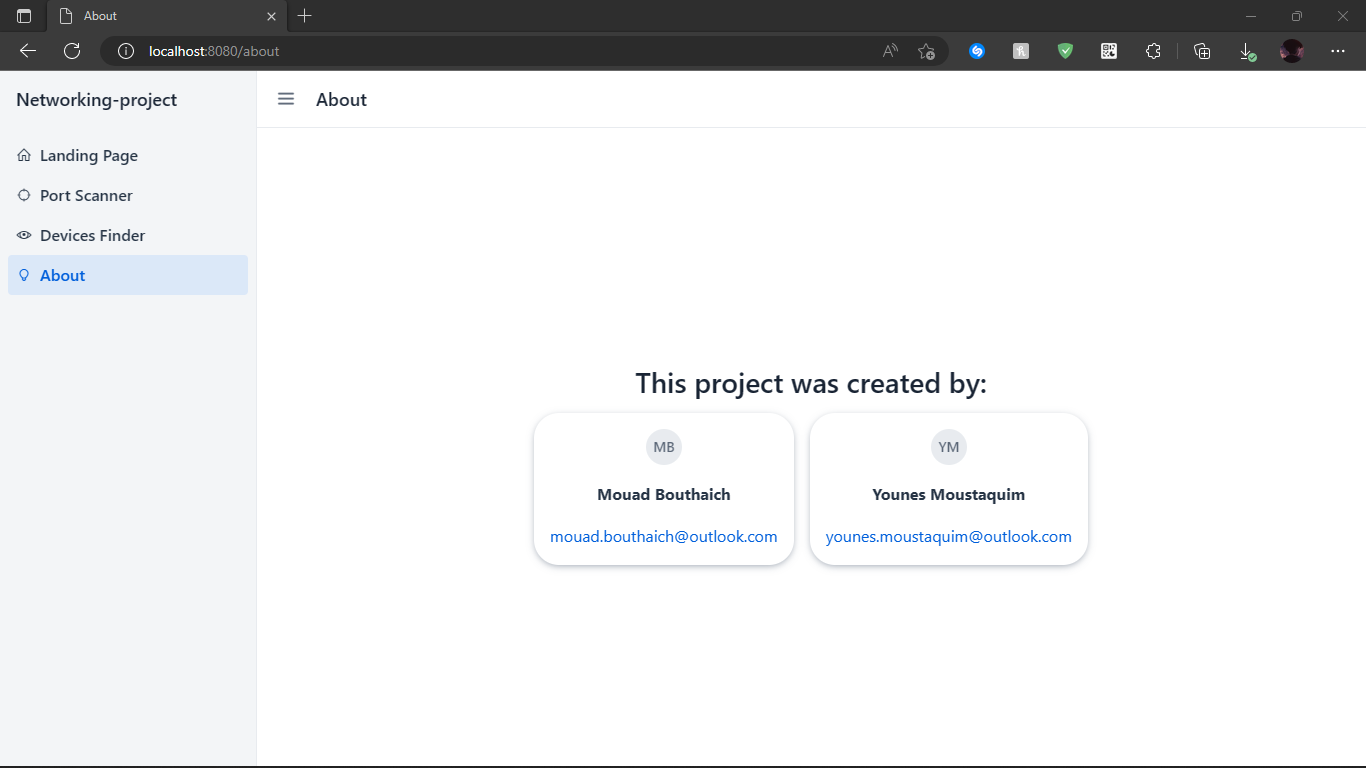
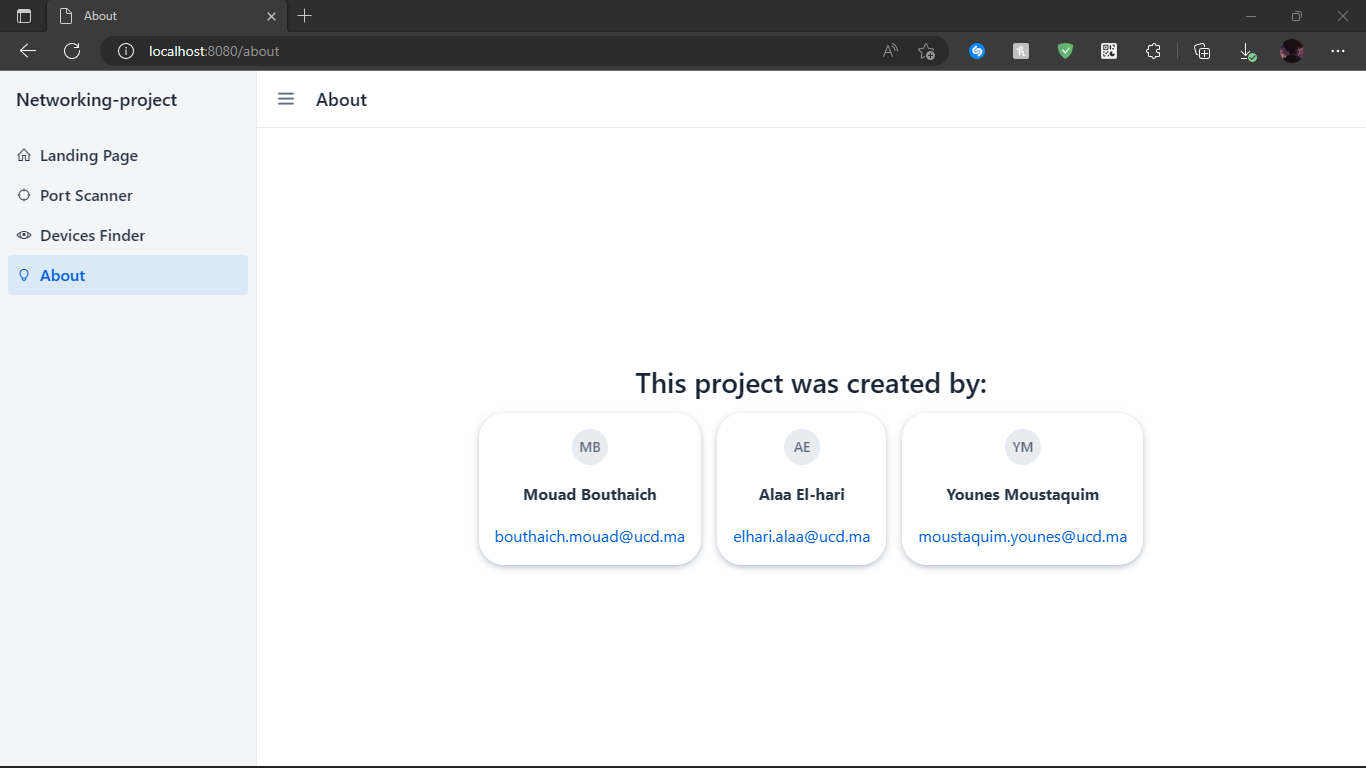
~Minor update

diff --git a/src/main/java/us/elite/views/about/AboutView.java b/src/main/java/us/elite/views/about/AboutView.java
@@ -19,8 +19,9 @@ public class AboutView extends VerticalLayout {
 
         add(new H2("This project was created by:"),
                 new HorizontalLayout(
-                        createProfileComponent("Mouad Bouthaich", "mouad.bouthaich@outlook.com"),
-                        createProfileComponent("Younes Moustaquim", "younes.moustaquim@outlook.com")));
+                        createProfileComponent("Mouad Bouthaich", "bouthaich.mouad@ucd.ma"),
+                        createProfileComponent("Alaa El-hari", "elhari.alaa@ucd.ma"),
+                        createProfileComponent("Younes Moustaquim", "moustaquim.younes@ucd.ma")));
 
         setSizeFull();
         setJustifyContentMode(JustifyContentMode.CENTER);
